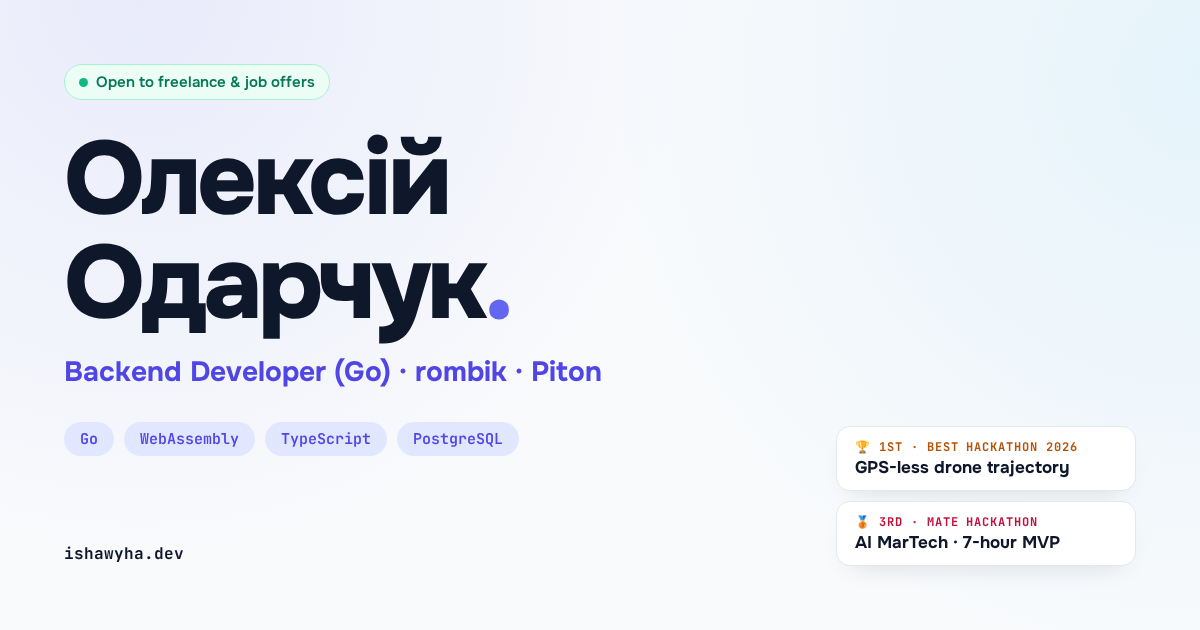
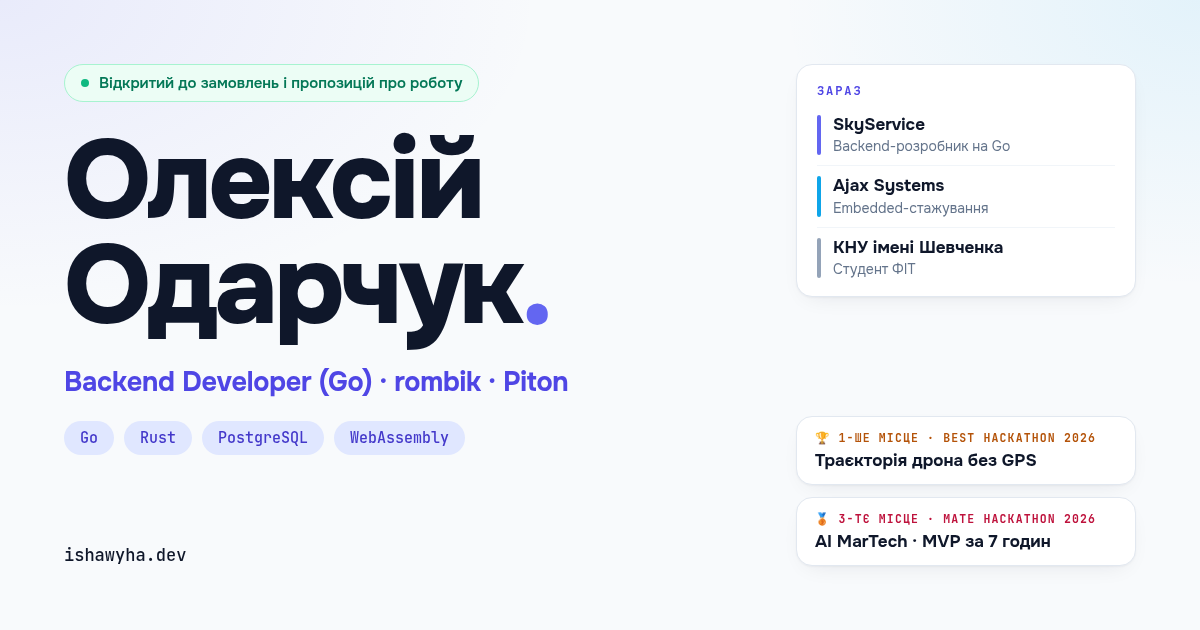
site: новий og.png — блок «Зараз» (SkyService, Ajax, КНУ), Rust у тегах; og:image?v=2

diff --git a/src/lib/components/Seo.svelte b/src/lib/components/Seo.svelte
@@ -40,7 +40,7 @@
   <meta property="og:description" content={description} />
   <meta property="og:type" content="website" />
   <meta property="og:url" content={url} />
-  <meta property="og:image" content="https://ishawyha.dev/og.png" />
+  <meta property="og:image" content="https://ishawyha.dev/og.png?v=2" />
   <meta property="og:image:width" content="1200" />
   <meta property="og:image:height" content="630" />
   <meta property="og:locale" content={ogLocale} />
@@ -48,7 +48,7 @@
   <meta name="twitter:card" content="summary_large_image" />
   <meta name="twitter:title" content={title} />
   <meta name="twitter:description" content={description} />
-  <meta name="twitter:image" content="https://ishawyha.dev/og.png" />
+  <meta name="twitter:image" content="https://ishawyha.dev/og.png?v=2" />
   <link rel="canonical" href={url} />
   {@html `<script type="application/ld+json">${personLd}</scr` + `ipt>`}
 </svelte:head>
